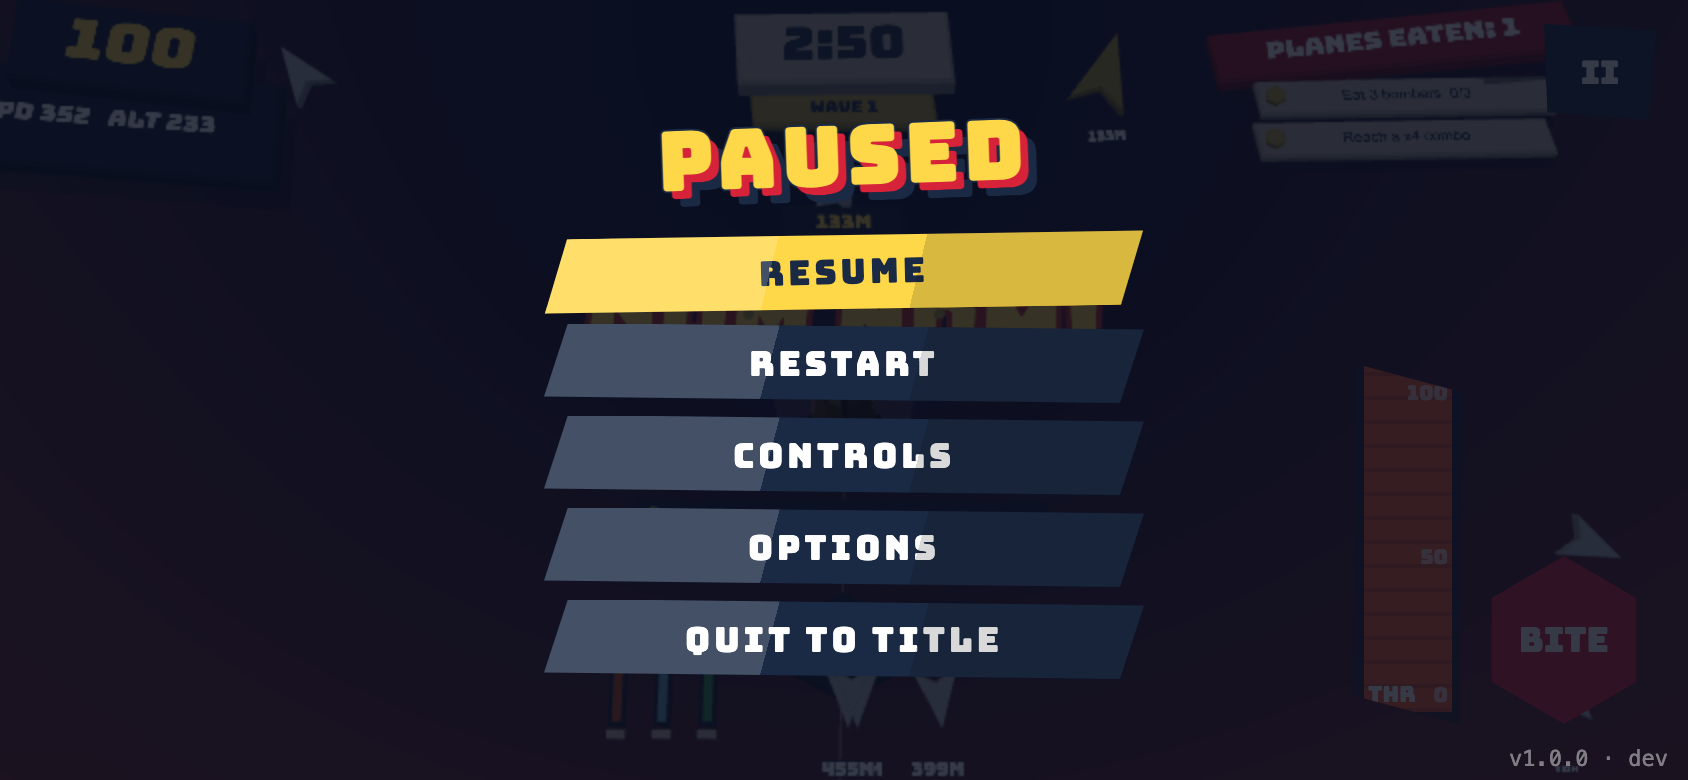
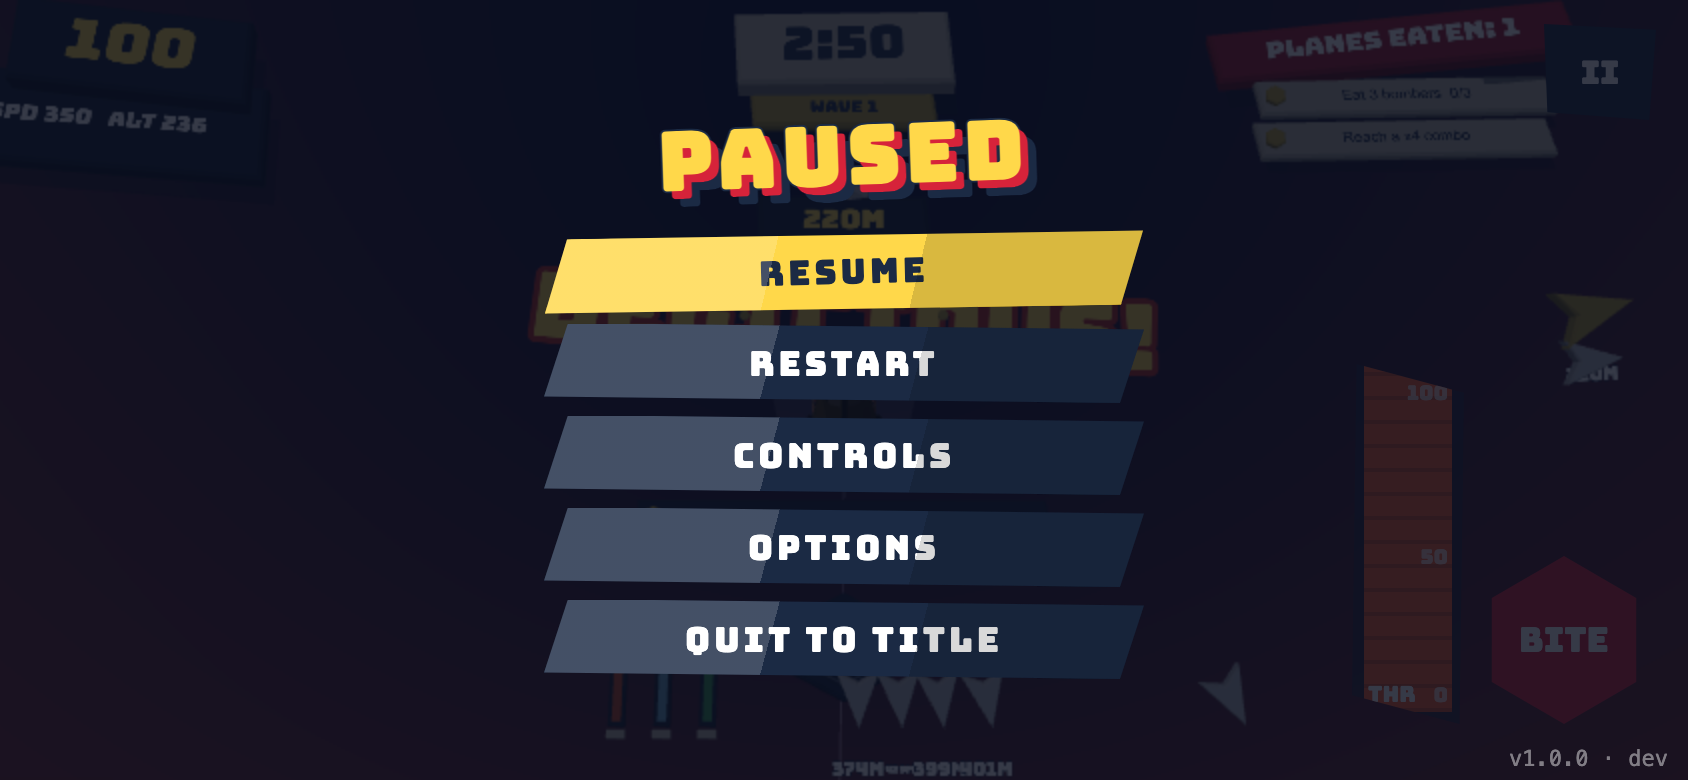
fix: no more ground clipping — water sits below the beach line, enemies crash on any airframe contact (wingtip-aware avoidance), player crashes when ploughing in and respawns airborne

diff --git a/lib/engine.ts b/lib/engine.ts
@@ -122,6 +122,7 @@ export class Engine {
   private camQ = new THREE.Quaternion(); private titleAngle = 0;
   private frameEma = 0.016; private slowFor = 0; private autoDropped = 0;
   private lockRef: object | null = null;
+  private crashTimer = 0; private crashPos = new THREE.Vector3(); private crashYaw = 0;
   private gForce = 0; private lastVel = new THREE.Vector3();
   private tier: Tier = "high";
   private tiltInput: Tilt | null = null;
@@ -280,6 +281,7 @@ export class Engine {
     this.voices.clear();
     this.tutorialStep = store.get().options.tutorialDone ? 99 : 0; this.tutorialTimer = 0;
     this.resumeIn = 0; this.tilt = 0; this.zoomPunch = 0; this.lastRadio.clear();
+    this.crashTimer = 0; this.player.mesh.visible = true;
     store.setHud({ subtitle: null, caption: "", weather: this.rainy ? "rain" : "clear", resumeIn: 0 });
 
     const p = this.player;
@@ -434,12 +436,13 @@ export class Engine {
         ghAhead = Math.max(ghAhead, groundHeight(look.x, look.z));
       }
       const clearance = e.pos.y - ghAhead;
-      if (clearance < 15) {
+      const span = 7 * k.scale; // half wingspan-ish: keep the whole airframe clear, not just the centre
+      if (clearance < 18 + span) {
         // emergency pull-up: forget everything else
         desired = eFwd.clone().setY(0).normalize().multiplyScalar(0.5).setY(1);
         turnRate = k.turn * 3;
-      } else if (clearance < 40) {
-        desired.y += (40 - clearance) / 40 * 1.5 + 0.3;
+      } else if (clearance < 50 + span) {
+        desired.y += (50 + span - clearance) / 50 * 1.5 + 0.3;
         turnRate = Math.max(turnRate, k.turn * 1.5);
       }
       if (e.pos.y > 260) desired.y -= 0.5;
@@ -452,10 +455,14 @@ export class Engine {
       e.roll = THREE.MathUtils.lerp(e.roll, (-yawDelta / Math.max(dt, 1e-4)) * 1.2, dt * 4);
       e.pos.addScaledVector(after, e.speed * (tired ? 0.8 : 1) * dt);
       // hit the ground or the sea: crash
-      const floor = groundHeight(e.pos.x, e.pos.z);
-      const panicking = threatened || e.fleeTimer > 0 || e.spookTimer > 0;
-      if (e.pos.y < floor + 1 && panicking) { this.crash(e, i, true); continue; }
-      if (e.pos.y < floor + 3) e.pos.y = floor + 3; // calm planes skim, never clip
+      // any part of the airframe touching terrain or water is a crash — sample the centre and both wingtips
+      const eRight = RIGHT.clone().applyQuaternion(e.q).multiplyScalar(6 * k.scale);
+      const lowest = Math.min(
+        e.pos.y - groundHeight(e.pos.x, e.pos.z),
+        e.pos.y + eRight.y - groundHeight(e.pos.x + eRight.x, e.pos.z + eRight.z),
+        e.pos.y - eRight.y - groundHeight(e.pos.x - eRight.x, e.pos.z - eRight.z),
+      );
+      if (lowest < 1.2 * k.scale) { this.crash(e, i, threatened || e.fleeTimer > 0 || e.spookTimer > 0); continue; }
       const toE = e.pos.clone().sub(p.pos);
       if (e.biteCooldown <= 0 && dist < 30 && pf.dot(toE.normalize()) > 0.75) e.pos.lerp(mouth, damp(4, dt));
       e.mesh.position.copy(e.pos);
@@ -667,6 +674,11 @@ export class Engine {
 
       if (water && p.pos.y - gh < 4 && p.speed > 30) this.emitDust(dt, 1.5, "splash");
 
+      // wingtips + nose: a real crash if you plough in nose-down or fast; a bounce if you merely skim
+      const pr = RIGHT.clone().applyQuaternion(p.q).multiplyScalar(6);
+      const tipLow = Math.min(p.pos.y + pr.y - groundHeight(p.pos.x + pr.x, p.pos.z + pr.z), p.pos.y - pr.y - groundHeight(p.pos.x - pr.x, p.pos.z - pr.z));
+      const noseDown = f.y < -0.35;
+      if ((p.pos.y < gh + 1.7 && (noseDown || p.speed > 52) && !(onRunway && p.speed < 40)) || tipLow < -1.5) { this.crashPlayer(); return; }
       if (p.pos.y < gh + 1.7) {
         p.pos.y = gh + 1.7;
         this.touchedGroundThisWave = true;
@@ -721,6 +733,40 @@ export class Engine {
       const n = Math.floor(this.streakAcc);
       if (n > 0) { this.streakAcc -= n; this.fx.streak(this.camera.position, FWD.clone().applyQuaternion(p.q), Math.min(n, 3)); }
     }
+  }
+
+  /** You hit the ground for real: airframe shreds, short blackout, respawn in the air nearby. Combo is lost; the clock keeps running. */
+  private crashPlayer() {
+    const p = this.player;
+    this.crashTimer = 2.6;
+    this.crashPos.copy(p.pos);
+    const f = FWD.clone().applyQuaternion(p.q); this.crashYaw = Math.atan2(-f.x, -f.z);
+    if (isWater(p.pos.x, p.pos.z)) { this.fx.splash(p.pos, 30); this.sound?.splash(p.pos); } else { this.fx.slick(p.pos); }
+    this.fx.shred(this.model.parts, p.mesh, 0x5b6b3a, 1.2);
+    p.mesh.visible = false;
+    for (const t of this.trails) t.reset(p.pos); this.contrail.reset(p.pos);
+    this.sound?.crash(p.pos); this.sound?.thud(0.8);
+    this.input.rumble(1, 1, 500);
+    this.shake = 1.4; this.hitStop = 0.12;
+    this.combo = 0; this.comboTimer = 0; this.frenzy = 0; this.post.setTint(new THREE.Color(0xff5d2e), 0);
+    this.touchedGroundThisWave = true;
+    p.speed = 0; p.throttle = 0; this.boosting = false; this.lunge = 0;
+    this.showMsg("CRASHED!");
+    this.radio("r_playerCrash", 5);
+  }
+  private updateCrash(dt: number) {
+    this.crashTimer -= dt;
+    this.post.setTint(new THREE.Color(0x000000), Math.min(1, Math.max(0, (1.6 - this.crashTimer) * 1.2)) * 0.9);
+    if (this.crashTimer > 0) return;
+    // respawn: 80 m up over the crash site, level, heading the same way, with flying speed
+    const p = this.player;
+    p.pos.copy(this.crashPos); p.pos.y = groundHeight(p.pos.x, p.pos.z) + 80;
+    p.q.setFromAxisAngle(UP, this.crashYaw); p.speed = 45; p.throttle = 0.8; p.state = "airborne"; p.gearUp = 1;
+    p.mesh.visible = true; p.mesh.position.copy(p.pos); p.mesh.quaternion.copy(p.q);
+    this.camQ.copy(p.q);
+    for (const t of this.trails) t.reset(p.pos); this.contrail.reset(p.pos);
+    this.post.setTint(new THREE.Color(0x000000), 0);
+    this.bounceTimer = 0; this.autoRotate = 0; this.handsOff = 0;
   }
 
   private emitDust(dt: number, rate: number, kind: "dust" | "splash") {
@@ -1021,7 +1067,7 @@ export class Engine {
         if (this.resumeIn > 0) { const prev = Math.ceil(this.resumeIn); this.resumeIn -= realDt; if (Math.ceil(this.resumeIn) !== prev) this.sound?.tick(); dt = 0; }
         if (this.hitStop > 0) { this.hitStop -= realDt; dt = 0; }
         if (dt > 0) {
-          this.updatePlayer(dt);
+          if (this.crashTimer > 0) this.updateCrash(dt); else this.updatePlayer(dt);
           const enemyDt = this.frenzy > 0 ? dt * 0.5 : dt; // frenzy: they slow down, you don't
           this.updateEnemies(enemyDt);
           this.updateBoss(enemyDt);

diff --git a/lib/i18n.ts b/lib/i18n.ts
@@ -14,7 +14,7 @@ const STRINGS = {
     r_combo: "You: I could do this all day.", r_frenzy: "You: FEEDING TIME!", r_boss: "Tower: Uh… Shark One, there's a zeppelin. Bon appétit.",
     r_bossDown: "You: Burp. Excuse me.", r_enemySpot: "Enemy: It's behind me! IT'S BEHIND ME!", r_enemyPair: "Enemy: Stay close, wingman— wingman?",
     r_land: "Tower: Nice landing. Did you bring us anything?", r_hungry: "You: Getting peckish up here.", r_starving: "Tower: Shark One, your engine sounds… hungry.",
-    r_crash: "Enemy: I'd rather crash than— oh.", r_wave: "Tower: Fresh batch inbound. Chew with your mouth closed.", r_bird: "You: Snack.",
+    r_crash: "Enemy: I'd rather crash than— oh.", r_playerCrash: "Tower: Shark One… that one's coming out of your pay. New airframe inbound.", r_wave: "Tower: Fresh batch inbound. Chew with your mouth closed.", r_bird: "You: Snack.",
     // tutorial
     t_throttle: "Tower: Hold SHIFT to throttle up and roll down the strip.", t_rotate: "Tower: Past 150 — pull back (S) to rotate.",
     t_find: "Tower: Follow the yellow arrow to your first meal.", t_bite: "Tower: Line the bracket up with your nose and close in. Tap SPACE to lunge.",
@@ -32,7 +32,7 @@ const STRINGS = {
     r_combo: "Þú: Ég gæti gert þetta allan daginn.", r_frenzy: "Þú: MATARTÍMI!", r_boss: "Turn: Ehm… Hákarl eitt, það er loftskip. Verði þér að góðu.",
     r_bossDown: "Þú: Rop. Afsakið.", r_enemySpot: "Óvinur: Hann er fyrir aftan mig! FYRIR AFTAN MIG!", r_enemyPair: "Óvinur: Haltu þig nálægt, vængmaður— vængmaður?",
     r_land: "Turn: Flott lending. Komstu með eitthvað handa okkur?", r_hungry: "Þú: Farinn að verða svangur hérna uppi.", r_starving: "Turn: Hákarl eitt, vélin hljómar… svöng.",
-    r_crash: "Óvinur: Frekar brotlendi ég en— ó.", r_wave: "Turn: Ný sending á leiðinni. Tyggðu með lokaðan munn.", r_bird: "Þú: Snarl.",
+    r_crash: "Óvinur: Frekar brotlendi ég en— ó.", r_playerCrash: "Turn: Hákarl eitt… þetta dregst af laununum. Ný vél á leiðinni.", r_wave: "Turn: Ný sending á leiðinni. Tyggðu með lokaðan munn.", r_bird: "Þú: Snarl.",
     t_throttle: "Turn: Haltu SHIFT til að gefa í og rúlla eftir brautinni.", t_rotate: "Turn: Yfir 150 — togaðu aftur (S) til að lyfta.",
     t_find: "Turn: Fylgdu gulu örinni að fyrstu máltíðinni.", t_bite: "Turn: Stilltu rammann við nefið og nálgastu. Ýttu á SPACE til að stökkva.",
     t_done: "Turn: Þetta er komið. Þú ert náttúrutalent. Hræðilegt, hræðilegt náttúrutalent.",

diff --git a/lib/terrain.ts b/lib/terrain.ts
@@ -97,7 +97,7 @@ export function buildWorld(scene: THREE.Scene, detail: Detail = DETAIL.high): Wo
     update(t) {
       for (let i = 0; i < wpos.count; i++) {
         const x = base[i * 3], z = base[i * 3 + 2];
-        wpos.setY(i, 0.5 * Math.sin(x * 0.05 + t * 1.1) + 0.35 * Math.cos(z * 0.07 + t * 1.7) + 0.2 * Math.sin((x + z) * 0.03 - t));
+        wpos.setY(i, 0.3 * Math.sin(x * 0.05 + t * 1.1) + 0.2 * Math.cos(z * 0.07 + t * 1.7) + 0.1 * Math.sin((x + z) * 0.03 - t));
       }
       wpos.needsUpdate = true;
       water.geometry.computeVertexNormals();
@@ -110,7 +110,7 @@ function buildWater(scene: THREE.Scene, seg: number) {
   g.rotateX(-Math.PI / 2);
   const m = new THREE.MeshPhongMaterial({ color: 0x2f86d8, specular: 0xffffff, shininess: 90, flatShading: true, transparent: true, opacity: 0.92 });
   const water = new THREE.Mesh(g, m);
-  water.position.y = 0;
+  water.position.y = -0.75; // ripples (±0.6) never rise above the sand band at y≥0
   water.receiveShadow = true;
   scene.add(water);
   return water;

diff --git a/app/layout.tsx b/app/layout.tsx
@@ -32,7 +32,7 @@ const jsonLd = {
 // Pages can't set headers, so the CSP rides in a meta tag. Next's own inline runtime needs 'unsafe-inline' for scripts
 // in a static export; everything else is same-origin (the font is self-hosted by next/font).
 const csp = [
-  "default-src 'self'", "script-src 'self' 'unsafe-inline'", "style-src 'self' 'unsafe-inline'", "font-src 'self'",
+  "default-src 'self'", `script-src 'self' 'unsafe-inline'${process.env.NODE_ENV === "production" ? "" : " 'unsafe-eval'"}`, "style-src 'self' 'unsafe-inline'", "font-src 'self'",
   "img-src 'self' data: blob:", "connect-src 'self'", "worker-src 'self'", "object-src 'none'", "base-uri 'self'", "form-action 'none'", "frame-ancestors 'none'",
 ].join("; ");
 
